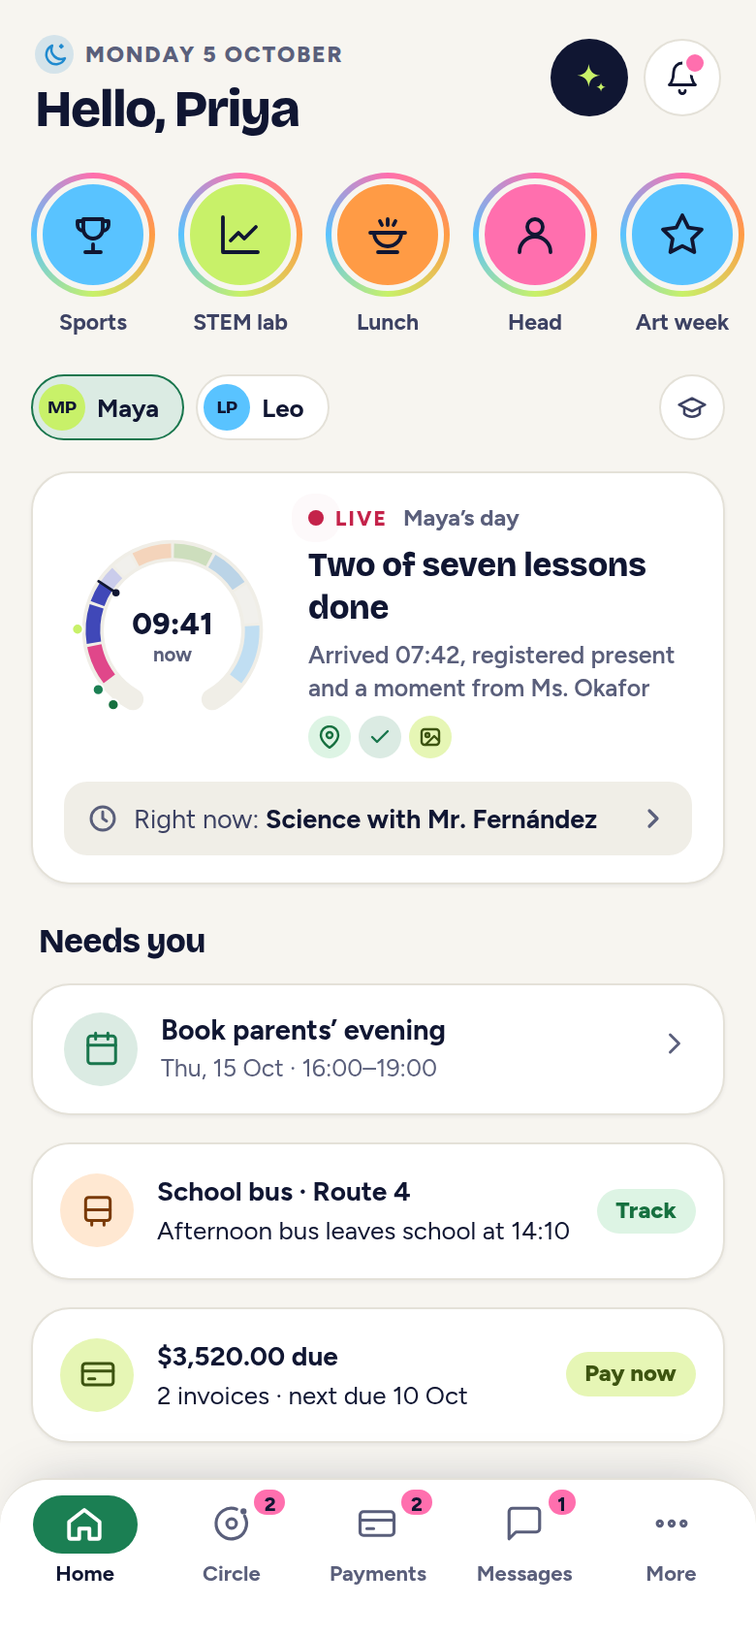
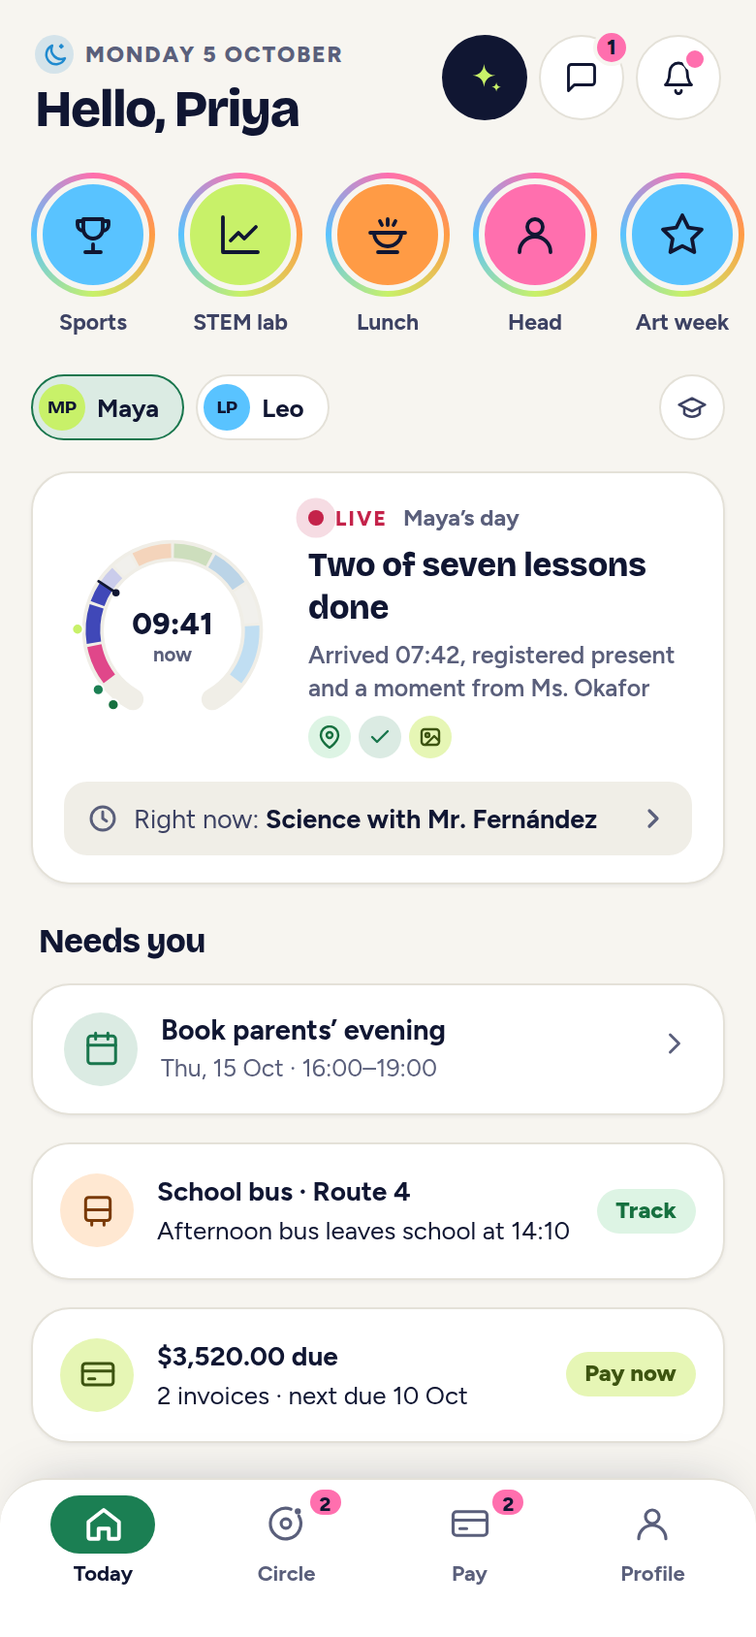
feat(design): parent app on four tabs: Today, Circle, Pay, Profile
Profile replaces More and opens with the parent and their children, then
Messages, family and relatives, school life, information and the account
(with a school switch). Messages leaves the tab bar: it opens from a header
button with the unread count on Today and from the top of Profile, and every
route that opened the Messages tab (notifications, Ask Quad, teachers'
pages, new message) now lands on Messages and the conversation. The unpaid
invoice count stays on Pay.

Claude-Session: https://claude.ai/code/session_0117xLtfQC6BzcmLYMUFuCkT

diff --git a/design/parent.html b/design/parent.html
@@ -64,7 +64,7 @@ h1,h2,h3{margin:0;text-wrap:balance;letter-spacing:-.02em;font-family:var(--f-di
 .body.in-l{animation:inl .28s cubic-bezier(.2,.8,.2,1)}
 @keyframes inr{from{transform:translateX(40px);opacity:0}}
 @keyframes inl{from{transform:translateX(-40px);opacity:0}}
-.tabbar{flex:none;display:grid;grid-template-columns:repeat(5,1fr);background:var(--surface);border-top:1px solid var(--line);padding:8px 6px 24px;border-radius:24px 24px 0 0;box-shadow:0 -10px 28px -18px rgba(16,22,50,.35)}
+.tabbar{flex:none;display:grid;grid-template-columns:repeat(4,1fr);background:var(--surface);border-top:1px solid var(--line);padding:8px 6px 24px;border-radius:24px 24px 0 0;box-shadow:0 -10px 28px -18px rgba(16,22,50,.35)}
 .tabbar button{display:flex;flex-direction:column;align-items:center;gap:3px;font-size:11px;font-weight:700;color:var(--ink-3);position:relative;min-height:48px}
 .tabbar .ti{width:54px;height:30px;border-radius:var(--r-pill);display:grid;place-items:center;position:relative;transition:background .25s,color .25s}
 .tabbar button.on{color:var(--ink)}
@@ -419,8 +419,9 @@ input[type=range]{width:100%;accent-color:var(--brand-text)}
 .ghead h1{font:800 27px/1.08 var(--f-display);letter-spacing:-.03em;margin-top:4px;color:var(--ink)}
 .ghead .gico{display:inline-grid;place-items:center;width:20px;height:20px;border-radius:50%;background:color-mix(in srgb,currentColor 16%,transparent)}
 .gi-morning,.gi-afternoon{color:var(--c4)}.gi-evening{color:var(--c1)}.gi-night{color:var(--c3)}
-.ghead .acts{display:flex;gap:8px;align-self:flex-start;margin-top:4px}
-.ghead .back{position:relative}
+.ghead .acts{display:flex;gap:6px;align-self:flex-start;margin-top:2px}
+.ghead .back,.ghead .askq-btn{position:relative;width:44px;height:44px}
+.hbadge{position:absolute;top:-4px;right:-4px;min-width:19px;height:19px;padding:0 5px;border-radius:10px;background:var(--pink);color:var(--navy);font-size:11px;font-weight:800;display:grid;place-items:center;border:2px solid var(--canvas)}
 .ghead .back .dot{position:absolute;top:7px;right:8px;width:9px;height:9px;border-radius:50%;background:var(--pink);box-shadow:0 0 0 2px var(--surface)}
 .askq-btn{width:40px;height:40px;border-radius:50%;display:grid;place-items:center;flex:none;background:var(--navy);color:var(--lime)}
 :root[data-theme="dark"] .askq-btn{background:var(--navy-2);box-shadow:inset 0 0 0 1.5px var(--navy-line)}
@@ -716,9 +717,16 @@ button.it:active{background:var(--surface-2)}
 .news.art p{margin:0;color:var(--ink-2);line-height:1.6}.news.art p.lead{font-size:16.5px;color:var(--ink);font-weight:600}
 .nthumb{width:64px;height:48px;border-radius:12px;overflow:hidden;flex:none;box-shadow:inset 0 0 0 1px var(--line)}.nthumb .mo-art{width:100%;height:100%;display:block}
 /* More */
-.me-card{display:flex;gap:14px;align-items:center;padding:16px}
-.me-card .m{flex:1;min-width:0}.me-card b{display:block;font:800 20px var(--f-display);letter-spacing:-.02em}.me-card small{display:block;color:var(--ink-3);font-size:12.5px;white-space:nowrap;overflow:hidden;text-overflow:ellipsis}
-.me-kids{display:flex;gap:6px;margin-top:8px}.me-kids .chip{height:32px;font-size:12.5px}
+.me-card{display:flex;flex-direction:column;gap:14px;padding:18px 16px 16px;background:radial-gradient(100% 80% at 100% 0%,color-mix(in srgb,var(--pink) 20%,transparent),transparent 62%),var(--surface)}
+.me-top{display:flex;gap:14px;align-items:center}
+.me-top .av.lg{width:72px;height:72px;font-size:25px}
+.me-top .back{align-self:flex-start;width:44px;height:44px}
+.me-kids{display:grid;grid-template-columns:1fr 1fr;gap:8px}
+.me-kid{display:flex;align-items:center;gap:10px;padding:8px 10px;min-height:52px;border-radius:var(--r-sm);border:1px solid var(--line);background:var(--surface);text-align:left;color:var(--ink);min-width:0}
+.me-kid:hover{background:var(--surface-2)}
+.me-kid span{min-width:0}.me-kid b{display:block;font-size:14px}.me-kid small{display:block;font-size:12px;color:var(--ink-3);white-space:nowrap;overflow:hidden;text-overflow:ellipsis}
+.sch-mark{width:38px;height:38px;border-radius:50%;display:grid;place-items:center;flex:none;background:var(--sc);color:#FFFFFF;font:800 13px var(--f-display)}
+.me-card .m{flex:1;min-width:0}.me-card .m b{display:block;font:800 22px/1.15 var(--f-display);margin-top:2px;letter-spacing:-.02em}.me-card small{display:block;color:var(--ink-3);font-size:12.5px;white-space:nowrap;overflow:hidden;text-overflow:ellipsis}
 .pwr{display:inline-flex;align-items:center;gap:5px;justify-content:center;flex-wrap:wrap}.note.pwr{display:flex}
 .qlogo{flex:none;vertical-align:-3px}
 .ph1{display:flex;align-items:center;gap:10px}.qmark{display:inline-grid}
@@ -1516,7 +1524,7 @@ SCR.home = () => {
     ['bus','t-green','bus','Track bus'],['pickup','t-blue','qr','Pickup pass'],['wallet','t-gold','wallet','Canteen'],['absence','t-red','alert','Report absence'],
     ['conduct','t-lotus','star','Rewards'],['trips','t-violet','pin','Trips'],['reports','t-blue','file','Reports'],['calendar','t-green','cal','Calendar']];
   return { head:`<div class="ghead"><div class="gt"><div class="gx"><div class="hello"><span class="gico gi-${greetPeriod().k}" aria-hidden="true">${greetIcon(greetPeriod(), 'currentColor', 15)}</span>Monday 5 October</div><h1>${greetPeriod().word}, Priya</h1></div>
-      <div class="acts"><button class="askq-btn" data-act="aqOpen" aria-label="Ask Quad" title="Ask Quad (press /)">${ic('spark',19)}</button><button class="back" data-act="push" data-to="notifications" aria-label="${S.notifs ? `Notifications, ${S.notifs} new` : 'Notifications'}">${ic('bell',18)}${S.notifs?'<span class="dot"></span>':''}</button></div></div></div>`, body: `
+      <div class="acts"><button class="askq-btn" data-act="aqOpen" aria-label="Ask Quad" title="Ask Quad (press /)">${ic('spark',19)}</button><button class="back" data-act="push" data-to="inbox" aria-label="${unreadN() ? `Messages, ${unreadN()} unread` : 'Messages'}">${ic('msg',18)}<span class="hbadge" id="msgBadge" ${unreadN() ? '' : 'hidden'}>${unreadN()}</span></button><button class="back" data-act="push" data-to="notifications" aria-label="${S.notifs ? `Notifications, ${S.notifs} new` : 'Notifications'}">${ic('bell',18)}${S.notifs?'<span class="dot"></span>':''}</button></div></div></div>`, body: `
   <div class="stories" role="group" aria-label="School stories">${STORIES.map((st, i) => `<button class="story ${st.seen?'seen':''}" data-act="story" data-i="${i}" aria-label="${st.name} story${st.seen ? ', seen' : ''}"><span class="ring-s"><span style="--acc:var(--${st.acc})">${ic(st.icon,24)}</span></span>${st.name}</button>`).join('')}</div>
   ${kidSwitch(true)}
   ${dayCard(k)}
@@ -1811,24 +1819,35 @@ function sendMsg(v) {
   const t = S.threads.find(x => x.id === +current().p.id) || S.threads[0];
   t.msgs.push({me:true, t:v, at:'Now', isNew:true}); t.seen = false; render();
   setTimeout(() => { t.seen = true; if (current().to !== 'thread') return; S.typing = true; render(); }, 800);
-  setTimeout(() => { S.typing = false; t.msgs.push({me:false, t:replyTo(v), at:'Now', isNew:true}); if (current().to === 'thread') render(); else { t.unread++; showPush(t.from, replyTo(v), () => { S.tab = 'inbox'; S.stack = [{to:'thread', p:{id:t.id}}]; }); } }, 2600);
+  setTimeout(() => { S.typing = false; t.msgs.push({me:false, t:replyTo(v), at:'Now', isNew:true}); if (current().to === 'thread') render(); else { t.unread++; showPush(t.from, replyTo(v), () => threadStack(t.id)); } }, 2600);
 }
 
-SCR.more = () => ({ big:'More', body: `
-  <div class="card me-card">${av('Priya Patel', 'var(--brand)', 'lg')}<div class="m"><b>Priya Patel</b><small>priya.patel@greenfield.example</small><div class="me-kids">${KIDS.map((k, i) => `<button class="chip" data-act="push" data-to="children" data-kid="${i}">${av(k.name, k.color, 'xs')}${k.first}</button>`).join('')}</div></div></div>
+/* Profile (replaces More): the parent first, with their children, then messages and everything More had */
+const PARENT = {name:'Priya Patel', first:'Priya', email:'priya.patel@greenfield.example', phone:'+1 415 555 0134'};
+const SCHOOLS_P = BRAND_DEMOS.slice(0, 2);
+SCR.more = () => { const un = unreadN(), from = [...new Set(S.threads.filter(t => t.unread).map(t => shortName(t.from)))], fam = famCircle(), others = familyOf(kid()).filter(f => f.key !== 'me' && f.kind !== 'pickup');
+  return { big:'Profile', body: `
+  <div class="card me-card"><div class="me-top">${av(PARENT.name, 'var(--brand)', 'lg')}<div class="m"><span class="eyebrow">Parent · ${esc(SCHOOL.name)}</span><b>${PARENT.name}</b><small>${PARENT.email}</small><small class="num">${PARENT.phone}</small></div><button class="back" data-act="push" data-to="contact" aria-label="Edit your contact details">${ic('user',18)}</button></div>
+    <div class="me-kids" role="group" aria-label="Your children">${KIDS.map((k, i) => `<button class="me-kid" data-act="push" data-to="children" data-kid="${i}">${av(k.name, k.color, 'sm')}<span><b>${k.first}</b><small>${acadText(k.grade)}</small></span></button>`).join('')}</div></div>
+  <div class="card">${row('msg', 'a-sky', 'Messages', un ? `${cap(plural(un, 'unread message'))} from ${listJoin(from.map(esc))}` : 'You’re all caught up', un ? `<span class="th-n">${un}</span>` : '', 'data-act="push" data-to="inbox"')}</div>
   ${secX('Your children')}
   <div class="card">${row('kids',FA.children,'My children','Profiles, classes and teachers','', 'data-act="push" data-to="children"')}${KIDS.map((k, i) => row('leaf', insight(k).level[0] === 'good' ? 't-green' : 't-amber', `How ${k.first} is doing`, insight(k).level[1] + ' · attendance, learning, wellbeing', '', `data-act="push" data-to="doing" data-kid="${i}"`)).join('')}${row('orbit',FA.people,'Circle','Moments, the people around your children and this week’s learning','', 'data-act="circGo" data-v="moments"')}</div>
+  ${secX('Family and relatives')}
+  <div class="card">${row('heart','a-pink','Family and relatives', `${esc(listJoin(others.map(f => f.name.split(' ')[0])))} · ${plural(fam.length, 'relative')} can see moments`, '', 'data-act="circGo" data-v="people"')}${row('plus','a-pink','Invite family','Grandparents, aunts and uncles can see moments','', 'data-act="famInvite"')}${row('qr',FA.pickup,'Pickup people', `${S.pickers.map(x => x[0].split(' ')[0]).join(', ')} can collect at the gate`,'', 'data-act="push" data-to="pickup"')}</div>
   ${secX('School life')}
   <div class="card">${row('spark',FA.askq,'Ask Quad','Ask about homework, fees, the bus…','', 'data-act="aqOpen"')}${row('cal',FA.evening,'Parents’ evening','Book times with teachers','', 'data-act="push" data-to="evening"')}${row('file',FA.forms,'Forms','Consent and sign-ups','', 'data-act="push" data-to="forms"')}${row('book',FA.exams,'Exams','Exam timetable','', 'data-act="push" data-to="exams"')}${row('pin',FA.trips,'Trips & bookings','Consent and payment','', 'data-act="push" data-to="trips"')}</div>
   ${secX('Information')}
   <div class="card">${row('cal',FA.calendar,'School calendar','Term dates, events, holidays','', 'data-act="push" data-to="calendar"')}${row('news',FA.news,'News','Stories from campus','', 'data-act="push" data-to="news"')}${row('phone',FA.directory,'Staff directory','Contact the right person','', 'data-act="push" data-to="directory"')}</div>
   ${secX('Account')}
-  <div class="card">${row('user',FA.contact,'Contact details','Address, phone, email','', 'data-act="push" data-to="contact"')}${row('bell',FA.subs,'Notifications','Choose what the school sends you','', 'data-act="push" data-to="subs"')}
+  <div class="card">${row('user',FA.contact,'Contact details','Address, phone, email','', 'data-act="push" data-to="contact"')}${row('bell',FA.subs,'Notification settings','Choose what the school sends you','', 'data-act="push" data-to="subs"')}${row('globe','a-lime','Switch school', `${esc(SCHOOL.name)} · ${plural(SCHOOLS_P.length, 'school')} on your account`,'', 'data-act="schoolSheet"')}
     <div class="row"><div class="ico ${FA.faceid}">${ic('lock',19)}</div><div class="m"><b>Face ID</b><small>Unlock the app with Face ID</small></div><button class="toggle ${S.faceid?'on':''}" data-act="faceid" role="switch" aria-checked="${S.faceid}" aria-label="Face ID"></button></div>
     <div class="row"><div class="ico ${FA.theme}">${ic('moon',19)}</div><div class="m"><b>Dark mode</b><small>Follows your phone unless set here</small></div><button class="toggle ${isDark()?'on':''}" data-act="theme" role="switch" aria-checked="${isDark()}" aria-label="Dark mode"></button></div>
     ${row('globe',FA.language,'Language','English · Spanish and French coming soon')}</div>
   <button class="btn sec" data-act="paSignOut" style="color:var(--bad)">${ic('out',18)}Sign out</button>
-  <p class="note pwr">${esc(SCHOOL.short)} Parent 1.0 · ${esc(SCHOOL.name)} · powered by ${quadMark(isDark(), 14)}Quad</p>` });
+  <p class="note pwr">${esc(SCHOOL.short)} Parent 1.0 · ${esc(SCHOOL.name)} · powered by ${quadMark(isDark(), 14)}Quad</p>` }; };
+const schoolSheet = () => openSheet(`<h2 class="sh-t">Switch school</h2><p class="sh-p">Your account is linked to ${plural(SCHOOLS_P.length, 'school')}. Each one shows its own children, messages and fees.</p>
+  <div style="display:flex;flex-direction:column;gap:8px" role="radiogroup" aria-label="Schools">${SCHOOLS_P.map(([n, sh, sub, col]) => `<button class="paycard ${SCHOOL.name === n ? 'on' : ''}" role="radio" aria-checked="${SCHOOL.name === n}" data-act="schoolPick" data-v="${sub}"><span class="sch-mark" style="--sc:${col}">${sh}</span><span style="flex:1"><b style="display:block">${esc(n)}</b><small style="color:var(--ink-3)">${SCHOOL.name === n ? 'Open now' : 'Tap to open'}</small></span><span class="radio"></span></button>`).join('')}</div>
+  <button class="btn sec" data-act="closeSheet">Keep ${esc(SCHOOL.name)}</button>`);
 
 const CAL = [['2026-10-06','Report absence deadline','Term 1 attendance review'],['2026-10-08','Parent–teacher meetings','8–10 Oct · 3:30–6:00 pm'],['2026-10-10','Term 1 fees due','Pay in the app'],['2026-10-18','Open day','All day'],['2026-10-23','Grade 4 museum trip','Consent required'],['2026-10-26','Half-term','School closed until Mon 2 Nov','off'],['2026-11-08','Science Olympiad','City finals · Grade 9'],['2026-11-20',"Founders’ Day",'School closed · founders’ celebration','off'],['2026-12-12','Term 1 ends · Winter break','Back on Mon 4 Jan · reports published 15 Dec','off']];
 SCR.calendar = () => { const f = S.calF || 'all', off = c => c[3] === 'off', list = CAL.filter(c => f === 'all' || (f === 'off' ? off(c) : !off(c)));
@@ -1867,12 +1886,17 @@ SCR.notifications = () => { S.notifs = 0; const lm = momFor(KIDS[0])[0];
   <button class="btn sec" data-act="push" data-to="subs">${ic('bell', 18)}Choose what you get</button>` }; };
 
 /* ---------- Render ---------- */
-const ROOTS = {home:'home', moments:'moments', pay:'pay', inbox:'inbox', more:'more'};
+/* Four tabs: Today, Circle, Pay, Profile (internal keys home, moments, pay, more). Messages is a screen opened from the Today header and Profile */
+const ROOTS = {home:'home', moments:'moments', pay:'pay', more:'more'};
+const unreadN = () => S.threads.reduce((a, t) => a + t.unread, 0);
+/* Open a conversation from anywhere (notifications, Ask Quad, a teacher's page): Messages, then the thread, on Today or Profile */
+const threadStack = id => { if (S.tab !== 'more') S.tab = 'home'; S.stack = [{to:'inbox', p:{}}, {to:'thread', p:{id}}]; };
 const isDark = () => { const r = document.documentElement.dataset.theme; return r ? r === 'dark' : matchMedia('(prefers-color-scheme: dark)').matches; };
 function current() { return S.stack.length ? S.stack[S.stack.length - 1] : {to: S.tab, p: {}}; }
 function renderTabbar() {
-  const unread = S.threads.reduce((a, t) => a + t.unread, 0), due = S.invoices.filter(i => i.amt > i.paid).length, mn = momUnseen().length;
-  document.getElementById('tabbar').innerHTML = [['home','Home','home'],['moments','Circle','orbit', mn],['pay','Payments','pay', due],['inbox','Messages','msg', unread],['more','More','more']]
+  const mb = document.getElementById('msgBadge'), un = unreadN(); if (mb) { mb.textContent = un; mb.hidden = !un; mb.parentElement.setAttribute('aria-label', un ? `Messages, ${un} unread` : 'Messages'); }
+  const due = S.invoices.filter(i => i.amt > i.paid).length, mn = momUnseen().length;
+  document.getElementById('tabbar').innerHTML = [['home','Today','home'],['moments','Circle','orbit', mn],['pay','Pay','pay', due],['more','Profile','user']]
     .map(([k, l, i, b]) => `<button class="${S.tab===k?'on':''}" data-act="tab" data-t="${k}" aria-current="${S.tab===k?'page':'false'}" ${b ? `aria-label="${l}, ${b} new"` : ''}><span class="ti">${ic(i,21,S.tab===k?2.2:1.8)}</span>${l}${b?`<span class="badge">${b}</span>`:''}</button>`).join('');
 }
 function render(dir) {
@@ -1933,7 +1957,7 @@ const PUSHES = {
   absence:{t:'Attendance alert', m:'Leo was not in the 08:00 register. Tap to give a reason.', go:() => { S.kid = 1; S.tab = 'home'; S.stack = [{to:'absence', p:{}}]; }},
   reward:{t:'Reward earned', m:'Maya earned 5 house points for her science fair project.', go:() => { S.kid = 0; KIDS[0].points += 5; S.celebrate = true; S.tab = 'home'; S.stack = [{to:'conduct', p:{}}]; }},
   invoice:{t:'New invoice', get m() { return `Transport · Route 4 for Leo · ${money(42000)} due 15 Oct.`; }, go:() => { S.invoices.forEach(i => { if (i.no === 'INV-26-01120') { i.paid = 0; } }); S.tab = 'pay'; S.stack = []; }},
-  message:{t:'Ms. Grace Okafor', m:'Maya did brilliantly in today’s spelling test!', go:() => { S.tab = 'inbox'; S.stack = [{to:'thread', p:{id:1}}]; }}
+  message:{t:'Ms. Grace Okafor', m:'Maya did brilliantly in today’s spelling test!', go:() => threadStack(1)}
 };
 let pushGo = null, pushT;
 function showPush(t, m, go) {
@@ -2138,7 +2162,7 @@ function paSignOut() { try { sessionStorage.removeItem('quad-auth-parent'); } ca
 /* ---------- Teacher threads, thanks, chats ---------- */
 function threadFor(k) { let t = S.threads.find(x => x.id === k.thread) || S.threads.find(x => x.from === k.teacher.full);
   if (!t) { t = {id: Math.max(0, ...S.threads.map(x => x.id)) + 1, from: k.teacher.full, role: `${cap(k.teacher.role)} · ${k.first}`, unread: 0, msgs: []}; S.threads.unshift(t); } return t; }
-function openThread(k, draft) { closeSheet(); aqClose(); const t = threadFor(k); S.tab = 'inbox'; S.stack = [{to:'thread', p:{id:t.id}}]; S.draft = draft || null; render('r'); }
+function openThread(k, draft) { closeSheet(); aqClose(); const t = threadFor(k); threadStack(t.id); S.draft = draft || null; render('r'); }
 function rerender() { const b = document.getElementById('body'), st = b.scrollTop; render(); b.scrollTop = st; }
 function petals(el) { if (reduced() || !el) return; const sc = document.getElementById('screen'), r = el.getBoundingClientRect(), sr = sc.getBoundingClientRect();
   const w = document.createElement('div'); w.className = 'petals'; w.style.left = (r.left - sr.left + r.width / 2) + 'px'; w.style.top = (r.top - sr.top + r.height / 2) + 'px';
@@ -2250,7 +2274,7 @@ const ACT = {
   theme: () => { const r = document.documentElement; r.dataset.theme = isDark() ? 'light' : 'dark'; try { localStorage.setItem('quad-parent-theme', r.dataset.theme); } catch (e) {} render(); },
   newMsg: () => openSheet(`<h2 style="font:800 20px var(--f-display)">New message</h2><div class="field"><label for="nm_to">To</label><select class="input" id="nm_to">${STAFF.map(s => `<option>${s[0]}</option>`).join('')}</select></div><div class="field"><label for="nm_b">Message</label><textarea class="input" id="nm_b" rows="4" placeholder="Write your message"></textarea></div><button class="btn" data-act="sendNew">${ic('send',18)}Send</button>`),
   sendNew: () => { const to = document.getElementById('nm_to').value, b = document.getElementById('nm_b').value.trim(); if (!b) { toast('Write a message before sending'); return; }
-    const id = S.threads.length + 1; S.threads.unshift({id, from: to, role:SCHOOL.name, unread:0, msgs:[{me:true, t:b, at:'Now'}]}); closeSheet(); S.tab = 'inbox'; S.stack = [{to:'thread', p:{id}}]; render('r'); },
+    const id = S.threads.length + 1; S.threads.unshift({id, from: to, role:SCHOOL.name, unread:0, msgs:[{me:true, t:b, at:'Now'}]}); closeSheet(); threadStack(id); render('r'); },
   unlock, lockApp: () => { closeSheet(); aqClose(); if (!document.getElementById('signin').hidden) return; document.getElementById('lock').classList.remove('off'); },
   paGo: el => { PA.step = el.dataset.v; paRender(); },
   paMode: () => { PA.email = !PA.email; paRender(); },
@@ -2264,7 +2288,7 @@ const ACT = {
   jump: el => { if (!document.getElementById('signin').hidden) paFinish(); else unlock(); closeSheet(); closeStory(); aqClose(); const to = el.dataset.to; S.demoT = null;
     if (to === 'pay') { S.tab = 'pay'; S.stack = []; render(); setTimeout(() => paySheet(), 250); }
     else if (['moments', 'people', 'learning'].includes(to)) { S.tab = 'moments'; S.stack = []; S.circ = to; if (to !== 'moments') S.kid = 0; if (to === 'moments') S.momF = 'all'; render(); }
-    else if (to === 'quiet') { S.demoT = 19 * 60 + 30; S.tab = 'inbox'; S.stack = [{to:'thread', p:{id:1}}]; render('r'); toast('Demo clock set to 19:30, inside quiet hours'); }
+    else if (to === 'quiet') { S.demoT = 19 * 60 + 30; S.tab = 'home'; threadStack(1); render('r'); toast('Demo clock set to 19:30, inside quiet hours'); }
     else if (to === 'askq') { S.tab = 'home'; S.stack = []; render(); setTimeout(() => aqOpen(), 200); }
     else if (to === 'doing') { S.kid = 1; S.tab = 'home'; S.stack = [{to, p:{}}]; render('r'); }
     else if (to === 'stories') { S.tab = 'home'; S.stack = []; render(); setTimeout(() => openStory(0), 300); }
@@ -2295,7 +2319,7 @@ const ACT = {
   aqAsk: el => aqAsk(el.dataset.q),
   aqGo: el => { aqClose(); closeSheet(); const to = el.dataset.to, kd = el.dataset.kid;
     if (to === 'moments') { S.momF = kd === '' || kd === undefined ? 'all' : kd; S.tab = 'moments'; S.circ = 'moments'; S.stack = []; render(); return; }
-    if (kd !== undefined && kd !== '') S.kid = +kd; if (['pay','inbox','more'].includes(to)) { S.tab = to; S.stack = []; render(); } else push(to); },
+    if (kd !== undefined && kd !== '') S.kid = +kd; if (['pay','more'].includes(to)) { S.tab = to; S.stack = []; render(); } else if (to === 'inbox') { S.tab = 'home'; S.stack = [{to:'inbox', p:{}}]; render('r'); } else push(to); },
   aqThanks: el => { const m = momThank(el.dataset.id); el.innerHTML = ic('check',14) + 'Thanks sent'; el.disabled = true; if (m) { petals(el); toast(`Thank-you sent to ${m.by}`); } if (['home','moments'].includes(current().to)) rerender(); },
   momF: el => { S.momF = el.dataset.v; rerender(); },
   momGo: el => { S.momF = el.dataset.kid !== undefined ? el.dataset.kid : 'all'; S.tab = 'moments'; S.circ = 'moments'; S.stack = []; render('r'); },
@@ -2315,6 +2339,8 @@ const ACT = {
   famSheet: el => famSheet(el.dataset.key),
   famInvite: el => famInvite(el && el.dataset && el.dataset.name),
   famPickup: () => { closeSheet(); push('pickup'); },
+  schoolSheet: () => schoolSheet(),
+  schoolPick: el => { closeSheet(); if (el.getAttribute('aria-checked') === 'true') return; ACT.brandDemo(el); },
   famSend: () => { const n = document.getElementById('fi_n').value.trim(), ph = document.getElementById('fi_p').value.trim(), d = ph.replace(/\D/g, ''), ks = [...document.querySelectorAll('.fi-k:checked')].map(x => x.value), err = document.getElementById('fi_e');
     if (n.split(/\s+/).length < 2) { err.textContent = 'Enter their first and last name.'; return; } if (d.length < 9) { err.textContent = 'Enter their mobile number, like +44 7700 900123.'; return; } if (!ks.length) { err.textContent = 'Choose at least one child.'; return; }
     const f = famCircle(); f.push({id:'f' + Date.now().toString(36), name:n, rel:document.getElementById('fi_r').value, phone:ph.replace(/\d(?=(?:\D*\d){4})/g, '•'), kids:ks, sees:'moments', status:'invited', at:TODAY}); lsSetP('quad-family-circle', f);
@@ -2325,7 +2351,7 @@ const ACT = {
     openSheet(`<h2 class="sh-t">You tried it at home</h2><p class="sh-p">“${esc(l.tryHome)}”</p><div class="field"><label for="lt_n">A line for ${esc(l.by)} (optional)</label><textarea class="input" id="lt_n" rows="3" maxlength="140" placeholder="e.g. ${esc(k.first)} wrote to her grandmother in Lisbon"></textarea></div><button class="btn" data-act="lrnSave" data-id="${esc(l.id)}">${ic('check', 18, 2.4)}Tell ${esc(l.by)} we tried it</button><button class="btn sec" data-act="closeSheet">Not now</button>`.replace('her grandmother', k.he === 'she' ? 'her grandmother' : 'his grandmother')); },
   lrnSave: el => { const l = learning().find(x => x.id === el.dataset.id), k = kid(), T = lsGetP('quad-learning-tried', {}), note = (document.getElementById('lt_n').value || '').trim().slice(0, 140);
     T[l.id] = T[l.id] || {}; T[l.id][k.first] = {at:hmP(demoMin()), note}; lsSetP('quad-learning-tried', T); closeSheet(); rerender(); toast(`Thanks! ${l.by} will see that you tried it at home.`); },
-  pMsg: el => { const k = kid(), P = personOf(k, el.dataset.key), t = personThread(k, P); closeSheet(); S.tab = 'inbox'; S.stack = [{to:'thread', p:{id:t.id}}]; render('r'); },
+  pMsg: el => { const k = kid(), P = personOf(k, el.dataset.key), t = personThread(k, P); closeSheet(); threadStack(t.id); render('r'); },
   pThanks: el => { const k = kid(), P = personOf(k, el.dataset.key), id = k.id + '|' + P.key; S.pthx = S.pthx || {}; if (S.pthx[id]) return;
     const t = personThread(k, P); t.msgs.push({me:true, t:`Thank you, ${P.short}, for everything you’re doing with ${k.first} this term. It really shows at home.`, at:'Now'}); S.pthx[id] = nowHM(); rerender();
     petals(document.querySelector('[data-act="pThanks"]')); toast(`Thank-you sent to ${P.short}`);
